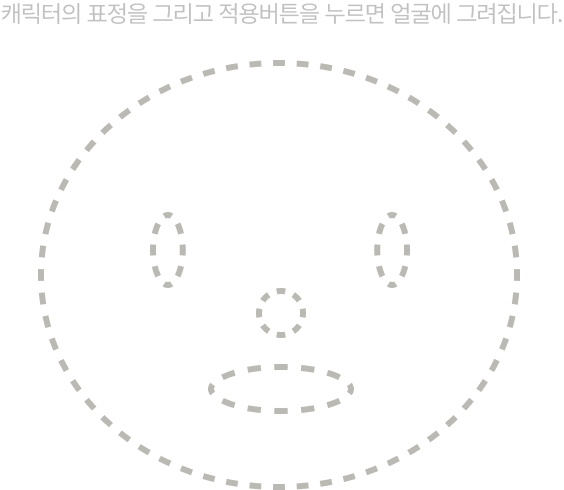
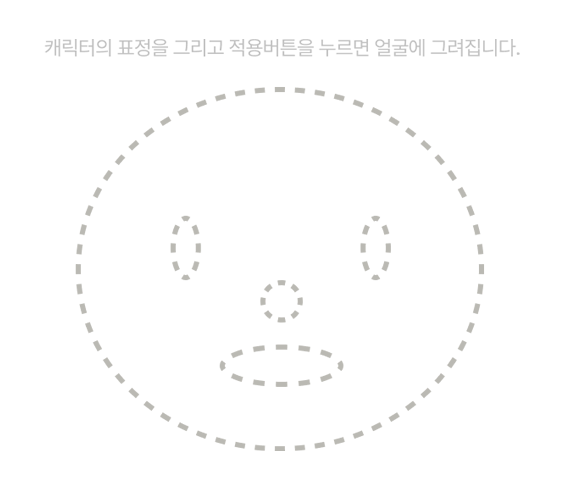
ready to go!

diff --git a/frontend/src/components/CreateCharacter.js b/frontend/src/components/CreateCharacter.js
@@ -739,6 +739,9 @@ function disposeModel(model) {
 
   const startRecording = async (setVideoFile) => {
     setIsRecording(true); // 녹화 시작
+
+    await new Promise((resolve) => setTimeout(resolve, 200)); // 약간의 대기 후 녹화 시작
+
     //모델링 정보 넘기기
     updateSceneData({
       mixer: modelsRef,
@@ -1435,7 +1438,7 @@ const clearExpressionCanvas = useCallback(() => {
                 <span
                   style={{
                     position: "absolute",
-                    top: "48%",
+                    top: "47%",
                     left: "50%",
                     transform: "translate(-50%, -50%)",
                     color: "#f8f6f1",
@@ -1687,7 +1690,7 @@ const clearExpressionCanvas = useCallback(() => {
                   height={380} // 실제 캔버스의 고정된 해상도
                   style={{
                     position: "relative",
-                    background: "blue", // 배경을 투명하게 설정clipPath: "inset(165px 550px 30px 80px)", // (80, 165)에서 (350, 350) 영역만 보이게 함
+                    background: "transparent", // 배경을 투명하게 설정clipPath: "inset(165px 550px 30px 80px)", // (80, 165)에서 (350, 350) 영역만 보이게 함
                     clipPath: "inset(165px 510px 30px 30px)", // (80, 165)에서 (350, 350) 영역만 보이게 함
                     // transform: "translate(0, 0)", // X축으로 -500px 이동하여 오른쪽을 보이게 함
                     zIndex: 2, // 캔버스가 이미지 위에 렌더링되도록 설정

diff --git a/frontend/src/components/Home.js b/frontend/src/components/Home.js
@@ -115,6 +115,7 @@ function Home() {
     
     if (floatingButton && container && isFloatingVisible) {
 
+
       const buttonWidth = 70;
       const buttonHeight = 70;
       const collisionMargin = 5;
@@ -263,7 +264,10 @@ function Home() {
 
   return (
     <div className="App" style={{height: '100%', width: '100%'}}>
-      {isFloatingVisible && <div ref={floatingButtonRef} className="floating"></div>}
+      {isFloatingVisible && <div ref={floatingButtonRef} className="floating" style={{
+        left: '50px', // 초기 위치 설정
+        top: '100px', // 초기 위치 설정
+      }}></div>}
       
       <div id="headerLoader" style={{ 
         backgroundColor: isInvitationVisible ? 'transparent' : '#f8f6f1', 

diff --git a/frontend/src/components/PostcardView.js b/frontend/src/components/PostcardView.js
@@ -702,7 +702,7 @@ const PostcardView = ({isFixedSize}) => {
 
           {/* 두 번째 버튼: 특정 페이지로 이동 */}
           <button className="upbutton" onClick={() => window.location.href = `/postcardshareview/${id}`}>
-            춤사위가 보이지 않나요? <br></br>수동 녹화하러 가기
+            춤사위가 보이지 않나요? <br></br>수동 녹화하기
           </button>
         </>
       )}

diff --git a/frontend/src/components/Header.js b/frontend/src/components/Header.js
@@ -16,7 +16,7 @@ const Header = ({ title, needthird = true, onMenuClick }) => {
         </div>
         
         {/* 가운데 제목 */}
-        <div style={{ fontSize: '20px', color: '#412823', textAlign: 'center', flex: 1, verticalAlign:'center' }}>
+        <div style={{ fontSize: '20px', color: '#412823', textAlign: 'center', flex: 1, verticalAlign:'center', minWidth: '50%' }}>
           {title}
         </div>
 

diff --git a/frontend/src/components/CreateCharacter.css b/frontend/src/components/CreateCharacter.css
@@ -32,7 +32,7 @@ body,
 }
 
 body {
-  font-family: "Inter", sans-serif;
+  font-family: "Pretendard-Regular", sans-serif;
   color: #412823;
   background-color: #edece7;
   margin: 0;

diff --git a/frontend/src/components/Home.css b/frontend/src/components/Home.css
@@ -43,6 +43,10 @@ body {
   flex-direction: column;
 }
 
+* {
+  font-family: "Pretendard-Regular", sans-serif;
+}
+
 .App {
   position: fixed;
   top: 0;

diff --git a/frontend/src/components/PostcardView.css b/frontend/src/components/PostcardView.css
@@ -29,6 +29,8 @@ body {
 
   color: #412823;
   z-index: 1000;
+
+  font-size: 12px;
 }
 
 button:active {
